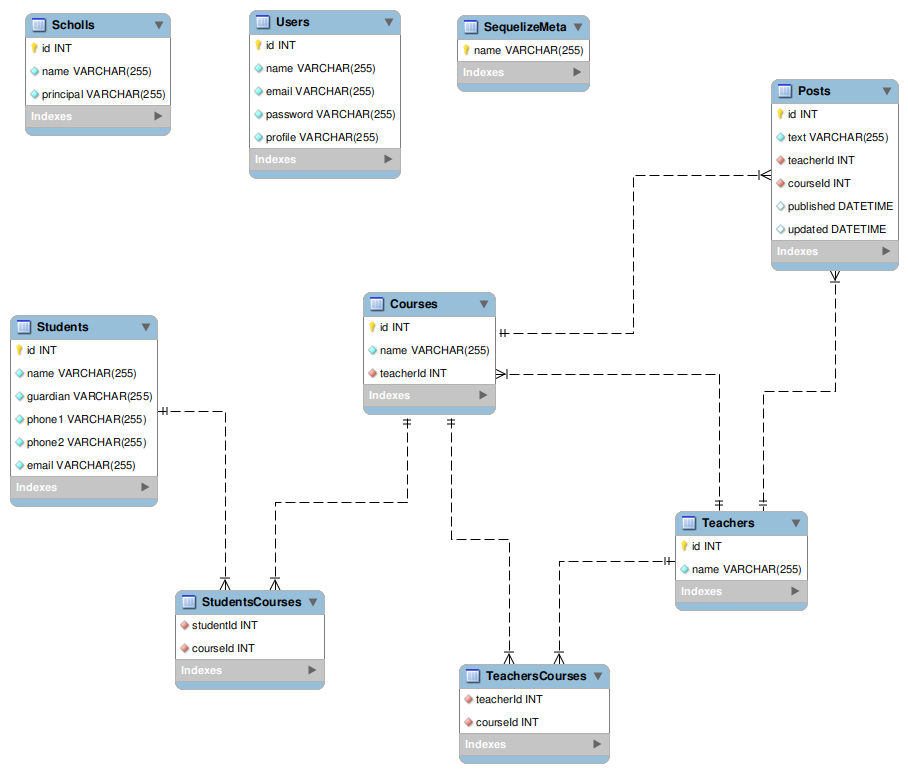
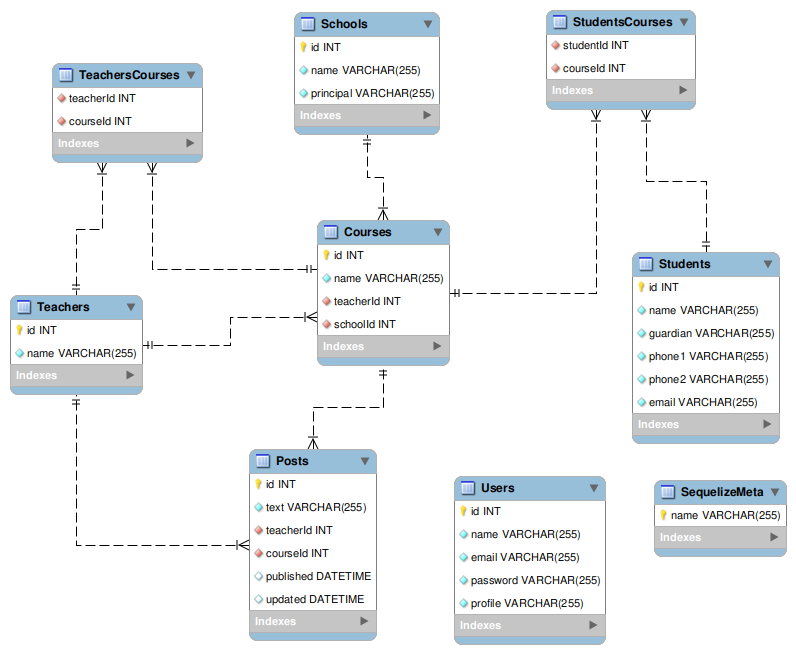
correção banco de dados e home page

diff --git a/front-end/src/pages/Login/index.jsx b/front-end/src/pages/Login/index.jsx
@@ -22,47 +22,49 @@ export default function Login() {
     const user = await loginFetch(userLoginData);
 
     localStorage.setItem('user', JSON.stringify(user));
-    if (user.message) {
-      return alert('E-mail ou Senha incorretos. Tente novamente.')
+    if (!user.token) {
+      return alert('E-mail ou Senha incorretos. Tente novamente.');
     }
-    history.push('/home');
+    return history.push('/home');
   };
   const handleRegister = () => {
     history.push('/register');
   };
   return (
-    <main>
-      <div className='container-login'>
-        <Form className='form-login'>
-          <Form.Group controlId='formBasicEmail'>
+    <main className="login">
+      <div className="container-login">
+        <Form className="form-login">
+          <Form.Group controlId="formBasicEmail">
             <Form.Label>E-mail</Form.Label>
             <Form.Control
-              type='email'
-              placeholder='Informe seu e-mail'
-              onChange={ ({ target: { value } }) => setEmail(value) } />
+              type="email"
+              placeholder="Informe seu e-mail"
+              onChange={({ target: { value } }) => setEmail(value)}
+            />
           </Form.Group>
 
-          <Form.Group controlId='formBasicPassword'>
+          <Form.Group controlId="formBasicPassword">
             <Form.Label>
               Senha
             </Form.Label>
             <Form.Control
-              type='password'
-              placeholder='Insira sua senha'
-              onChange={ ({ target: { value } }) => setPassword(value) } />
+              type="password"
+              placeholder="Insira sua senha"
+              onChange={({ target: { value } }) => setPassword(value)}
+            />
           </Form.Group>
           <Button
-            variant='primary'
-            type='submit'
-            onClick={ (event) => handleSubmit(event) }
-            disabled={ !inputValidation() }
-            >
+            variant="primary"
+            type="submit"
+            onClick={(event) => handleSubmit(event)}
+            disabled={!inputValidation()}
+          >
             Entrar
           </Button>
           <Button
             variant="primary"
             type="button"
-            onClick={ handleRegister }
+            onClick={handleRegister}
           >
             Ainda não tenho cadastro
           </Button>

diff --git a/front-end/src/components/Header/index.jsx b/front-end/src/components/Header/index.jsx
@@ -1,0 +1,28 @@
+import React from 'react';
+import {
+  Navbar, Nav, NavDropdown, Form, FormControl, Button,
+} from 'react-bootstrap';
+
+export default function Header() {
+  return (
+    <Navbar bg="light" expand="lg">
+      <Navbar.Brand>Gestão Escolas Públicas</Navbar.Brand>
+      <Navbar.Toggle aria-controls="basic-navbar-nav" />
+      <Navbar.Collapse id="basic-navbar-nav">
+        <Nav className="mr-auto">
+          <Nav.Link href="/home">Página Inicial</Nav.Link>
+          <Nav.Link href="/docentes">Docentes</Nav.Link>
+          <NavDropdown title="Turmas" id="basic-nav-dropdown">
+            <NavDropdown.Item href="#action/3.1">Ver Turmas</NavDropdown.Item>
+            <NavDropdown.Divider />
+            <NavDropdown.Item href="#action/3.4">Cadastrar Nova Turma</NavDropdown.Item>
+          </NavDropdown>
+        </Nav>
+        <Form inline>
+          <FormControl type="text" placeholder="Buscar por..." className="mr-sm-2" />
+          <Button variant="outline-success">Buscar</Button>
+        </Form>
+      </Navbar.Collapse>
+    </Navbar>
+  );
+}

diff --git a/back-end/models/Course.js b/back-end/models/Course.js
@@ -1,12 +1,21 @@
 const defineCourseModel = (sequelize, DataTypes) => {
   const Course = sequelize.define('Course', {
     name: DataTypes.STRING,
+    schoolId: {
+      type: DataTypes.INTEGER,
+      foreignKey: true,
+    },
     teacherId: {
       type: DataTypes.INTEGER,
       foreignKey: true,
     },
   }, { timestamps: false });
 
+  Course.associate = (models) => {
+    Course.belongsTo(models.School, {
+      as: 'school',
+      foreignKey: 'schoolId',
+    });
   Course.associate = (models) => {
     Course.belongsTo(models.Teacher, {
       as: 'teacher',

diff --git a/front-end/src/services/routes.jsx b/front-end/src/services/routes.jsx
@@ -1,11 +1,12 @@
 import React from 'react';
 import { Route, Switch } from 'react-router-dom';
-import { Main, Login } from '../pages';
+import { Main, Login, Home } from '../pages';
 
 const Routes = () => (
   <Switch>
-    <Route exact path="/" component={ Main } />
-    <Route exact path="/login" component={ Login } />
+    <Route exact path="/" component={Main} />
+    <Route exact path="/login" component={Login} />
+    <Route exact path="/home" component={Home} />
   </Switch>
 );
 

diff --git a/back-end/migrations/20210619185852-create-table-schools.js b/back-end/migrations/20210619185852-create-table-schools.js
@@ -2,7 +2,7 @@
 
 module.exports = {
   up: async (queryInterface, Sequelize) => {
-    await queryInterface.createTable('Scholls', {
+    await queryInterface.createTable('Schools', {
       id: {
         type: Sequelize.INTEGER,
         primaryKey: true,
@@ -21,6 +21,6 @@ module.exports = {
   },
 
   down: async (queryInterface, _Sequelize) => {
-    await queryInterface.dropTable('Scholls');
+    await queryInterface.dropTable('Schools');
   },
 };

diff --git a/back-end/seeders/20210620093707-seed-table-Schools.js b/back-end/seeders/20210620093707-seed-table-Schools.js
@@ -2,7 +2,7 @@
 
 module.exports = {
   up: async (queryInterface, Sequelize) => {
-    await queryInterface.bulkInsert('Scholls',
+    await queryInterface.bulkInsert('Schools',
       [{
         id: 1,
         name: 'Escola Leste',
@@ -16,6 +16,6 @@ module.exports = {
   },
 
   down: async (queryInterface, Sequelize) => {
-    await queryInterface.bulkDelete('Scholls', null, {});
+    await queryInterface.bulkDelete('Schools', null, {});
   }
 };

diff --git a/back-end/seeders/20210620093757-seed-table-Courses.js b/back-end/seeders/20210620093757-seed-table-Courses.js
@@ -6,16 +6,19 @@ module.exports = {
       [{
         id: 1,
         name: 'Turma-1A',
+        schoolId: 1,
         teacherId: 1,
       },
       {
         id: 2,
         name: 'Turma-1B',
+        schoolId: 1,
         teacherId: 2,
       },
       {
         id: 3,
-        name: 'Turma-2A',
+        name: 'Turma-1A',
+        schoolId: 2,
         teacherId: 3,
       }], { timestamps: false });
   },

diff --git a/back-end/migrations/20210619190014-create-table-courses.js b/back-end/migrations/20210619190014-create-table-courses.js
@@ -23,6 +23,16 @@ module.exports = {
         onUpdate: "CASCADE",
         onDelete: "CASCADE",
       },
+      schoolId: {
+        type: Sequelize.INTEGER,
+        allowNull: false,
+        references: {
+          model: 'Schools',
+          foreignKey: 'id',
+        },
+        onUpdate: "CASCADE",
+        onDelete: "CASCADE",
+      },
     });
   },
 

diff --git a/front-end/src/pages/Login/Login.css b/front-end/src/pages/Login/Login.css
@@ -1,14 +1,10 @@
-main {
+.login {
   display: flex;
   background-image: url('../../images/school-or-office-supplies-frame-on-rustic-wooden-table.jpg');
   width: 100%;
   height: 100vh;
   background-repeat: no-repeat;
   align-items: center;
-}
-
-.container-login {
-
 }
 
 .form-login {

diff --git a/front-end/src/index.js b/front-end/src/index.js
@@ -8,7 +8,7 @@ ReactDOM.render(
   <React.StrictMode>
     <App />
   </React.StrictMode>,
-  document.getElementById('root')
+  document.getElementById('root'),
 );
 
 // If you want to start measuring performance in your app, pass a function

diff --git a/front-end/src/pages/Home/index.jsx b/front-end/src/pages/Home/index.jsx
@@ -1,0 +1,10 @@
+import React from 'react';
+import { Header } from '../../components';
+
+export default function Home() {
+  return (
+    <main>
+      <Header />
+    </main>
+  );
+}

diff --git a/front-end/src/pages/index.js b/front-end/src/pages/index.js
@@ -1,7 +1,9 @@
 import Login from './Login';
 import Main from './Main';
+import Home from './Home';
 
 export {
   Login,
   Main,
+  Home,
 };
